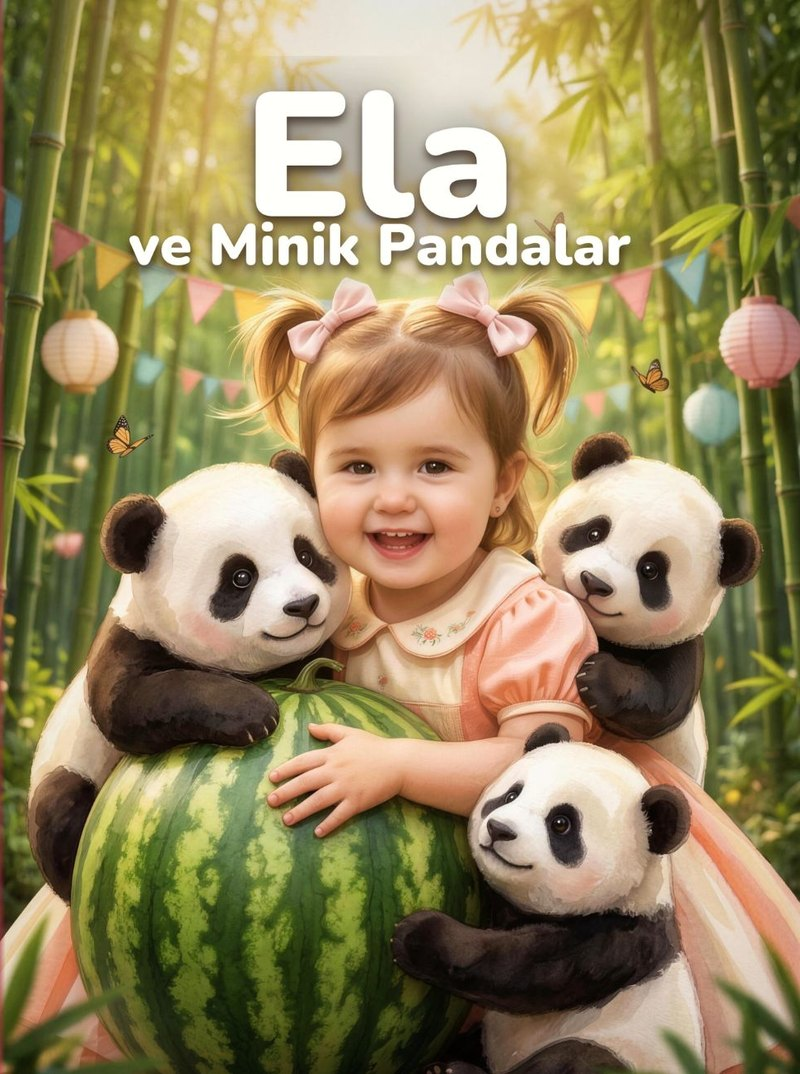
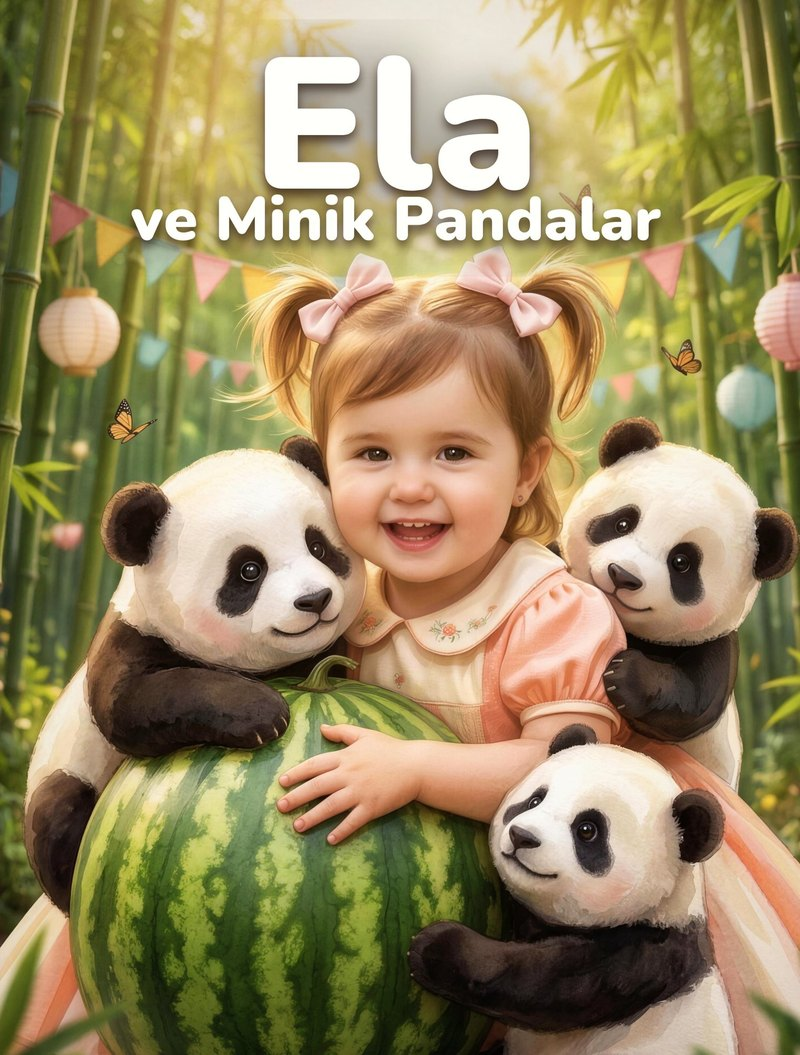
Sharper front covers for Asya and Ela
Claude-Session: https://claude.ai/code/session_01Mbokh7aAvXFYm4VU1qJPda

diff --git a/index.html b/index.html
@@ -17,7 +17,7 @@
 <link rel="preconnect" href="https://fonts.googleapis.com">
 <link rel="preconnect" href="https://fonts.gstatic.com" crossorigin>
 <link rel="stylesheet" href="https://fonts.googleapis.com/css2?family=Cormorant+Garamond:ital,wght@0,400;0,500;0,600;1,400;1,500&family=Jost:wght@300;400;500&display=swap">
-<link rel="stylesheet" href="site.css?v=202611081012">
+<link rel="stylesheet" href="site.css?v=202611081014">
 <style>
 /* Intro: one candlelit room. A jewel-red leather book with the gold-foil logo lies on the table.
    A tap on the book (or "Masalı Aç") opens it; three gold heroes grow out of the pages:
@@ -251,7 +251,7 @@
 <footer id="site-foot"></footer>
 
 <script src="https://cdnjs.cloudflare.com/ajax/libs/three.js/r128/three.min.js" defer></script>
-<script src="site.js?v=202611081012" defer></script>
+<script src="site.js?v=202611081014" defer></script>
 <script>
 // runs after the deferred three.js and site.js
 addEventListener('DOMContentLoaded', () => {

diff --git a/dinozorlarin-dogum-gunu-boyama.html b/dinozorlarin-dogum-gunu-boyama.html
@@ -17,8 +17,8 @@
 <link rel="preconnect" href="https://fonts.gstatic.com" crossorigin>
 <link rel="stylesheet" href="https://fonts.googleapis.com/css2?family=Cormorant+Garamond:ital,wght@0,400;0,500;0,600;1,400;1,500&family=Jost:wght@300;400;500&display=swap">
 <link rel="icon" href="img/favicon.png">
-<link rel="stylesheet" href="site.css?v=202611081012">
-<script src="site.js?v=202611081012" defer></script>
+<link rel="stylesheet" href="site.css?v=202611081014">
+<script src="site.js?v=202611081014" defer></script>
 </head>
 <body data-page="urun" data-product="dinozorlarin-dogum-gunu-boyama">
 <header id="site-head"></header>

diff --git a/buz-satosunun-sirri-boyama.html b/buz-satosunun-sirri-boyama.html
@@ -17,8 +17,8 @@
 <link rel="preconnect" href="https://fonts.gstatic.com" crossorigin>
 <link rel="stylesheet" href="https://fonts.googleapis.com/css2?family=Cormorant+Garamond:ital,wght@0,400;0,500;0,600;1,400;1,500&family=Jost:wght@300;400;500&display=swap">
 <link rel="icon" href="img/favicon.png">
-<link rel="stylesheet" href="site.css?v=202611081012">
-<script src="site.js?v=202611081012" defer></script>
+<link rel="stylesheet" href="site.css?v=202611081014">
+<script src="site.js?v=202611081014" defer></script>
 </head>
 <body data-page="urun" data-product="buz-satosunun-sirri-boyama">
 <header id="site-head"></header>

diff --git a/deniz-kizi-kralligi-boyama.html b/deniz-kizi-kralligi-boyama.html
@@ -17,8 +17,8 @@
 <link rel="preconnect" href="https://fonts.gstatic.com" crossorigin>
 <link rel="stylesheet" href="https://fonts.googleapis.com/css2?family=Cormorant+Garamond:ital,wght@0,400;0,500;0,600;1,400;1,500&family=Jost:wght@300;400;500&display=swap">
 <link rel="icon" href="img/favicon.png">
-<link rel="stylesheet" href="site.css?v=202611081012">
-<script src="site.js?v=202611081012" defer></script>
+<link rel="stylesheet" href="site.css?v=202611081014">
+<script src="site.js?v=202611081014" defer></script>
 </head>
 <body data-page="urun" data-product="deniz-kizi-kralligi-boyama">
 <header id="site-head"></header>

diff --git a/sihirli-kutuphane-boyama.html b/sihirli-kutuphane-boyama.html
@@ -17,8 +17,8 @@
 <link rel="preconnect" href="https://fonts.gstatic.com" crossorigin>
 <link rel="stylesheet" href="https://fonts.googleapis.com/css2?family=Cormorant+Garamond:ital,wght@0,400;0,500;0,600;1,400;1,500&family=Jost:wght@300;400;500&display=swap">
 <link rel="icon" href="img/favicon.png">
-<link rel="stylesheet" href="site.css?v=202611081012">
-<script src="site.js?v=202611081012" defer></script>
+<link rel="stylesheet" href="site.css?v=202611081014">
+<script src="site.js?v=202611081014" defer></script>
 </head>
 <body data-page="urun" data-product="sihirli-kutuphane-boyama">
 <header id="site-head"></header>

diff --git a/dinozorlarin-dogum-gunu.html b/dinozorlarin-dogum-gunu.html
@@ -17,8 +17,8 @@
 <link rel="preconnect" href="https://fonts.gstatic.com" crossorigin>
 <link rel="stylesheet" href="https://fonts.googleapis.com/css2?family=Cormorant+Garamond:ital,wght@0,400;0,500;0,600;1,400;1,500&family=Jost:wght@300;400;500&display=swap">
 <link rel="icon" href="img/favicon.png">
-<link rel="stylesheet" href="site.css?v=202611081012">
-<script src="site.js?v=202611081012" defer></script>
+<link rel="stylesheet" href="site.css?v=202611081014">
+<script src="site.js?v=202611081014" defer></script>
 </head>
 <body data-page="urun" data-product="dinozorlarin-dogum-gunu">
 <header id="site-head"></header>

diff --git a/minik-pandalar-boyama.html b/minik-pandalar-boyama.html
@@ -17,8 +17,8 @@
 <link rel="preconnect" href="https://fonts.gstatic.com" crossorigin>
 <link rel="stylesheet" href="https://fonts.googleapis.com/css2?family=Cormorant+Garamond:ital,wght@0,400;0,500;0,600;1,400;1,500&family=Jost:wght@300;400;500&display=swap">
 <link rel="icon" href="img/favicon.png">
-<link rel="stylesheet" href="site.css?v=202611081012">
-<script src="site.js?v=202611081012" defer></script>
+<link rel="stylesheet" href="site.css?v=202611081014">
+<script src="site.js?v=202611081014" defer></script>
 </head>
 <body data-page="urun" data-product="minik-pandalar-boyama">
 <header id="site-head"></header>

diff --git a/buz-satosunun-sirri.html b/buz-satosunun-sirri.html
@@ -17,8 +17,8 @@
 <link rel="preconnect" href="https://fonts.gstatic.com" crossorigin>
 <link rel="stylesheet" href="https://fonts.googleapis.com/css2?family=Cormorant+Garamond:ital,wght@0,400;0,500;0,600;1,400;1,500&family=Jost:wght@300;400;500&display=swap">
 <link rel="icon" href="img/favicon.png">
-<link rel="stylesheet" href="site.css?v=202611081012">
-<script src="site.js?v=202611081012" defer></script>
+<link rel="stylesheet" href="site.css?v=202611081014">
+<script src="site.js?v=202611081014" defer></script>
 </head>
 <body data-page="urun" data-product="buz-satosunun-sirri">
 <header id="site-head"></header>

diff --git a/deniz-kizi-kralligi.html b/deniz-kizi-kralligi.html
@@ -17,8 +17,8 @@
 <link rel="preconnect" href="https://fonts.gstatic.com" crossorigin>
 <link rel="stylesheet" href="https://fonts.googleapis.com/css2?family=Cormorant+Garamond:ital,wght@0,400;0,500;0,600;1,400;1,500&family=Jost:wght@300;400;500&display=swap">
 <link rel="icon" href="img/favicon.png">
-<link rel="stylesheet" href="site.css?v=202611081012">
-<script src="site.js?v=202611081012" defer></script>
+<link rel="stylesheet" href="site.css?v=202611081014">
+<script src="site.js?v=202611081014" defer></script>
 </head>
 <body data-page="urun" data-product="deniz-kizi-kralligi">
 <header id="site-head"></header>

diff --git a/sihirli-kutuphane.html b/sihirli-kutuphane.html
@@ -17,8 +17,8 @@
 <link rel="preconnect" href="https://fonts.gstatic.com" crossorigin>
 <link rel="stylesheet" href="https://fonts.googleapis.com/css2?family=Cormorant+Garamond:ital,wght@0,400;0,500;0,600;1,400;1,500&family=Jost:wght@300;400;500&display=swap">
 <link rel="icon" href="img/favicon.png">
-<link rel="stylesheet" href="site.css?v=202611081012">
-<script src="site.js?v=202611081012" defer></script>
+<link rel="stylesheet" href="site.css?v=202611081014">
+<script src="site.js?v=202611081014" defer></script>
 </head>
 <body data-page="urun" data-product="sihirli-kutuphane">
 <header id="site-head"></header>

diff --git a/minik-pandalar.html b/minik-pandalar.html
@@ -17,8 +17,8 @@
 <link rel="preconnect" href="https://fonts.gstatic.com" crossorigin>
 <link rel="stylesheet" href="https://fonts.googleapis.com/css2?family=Cormorant+Garamond:ital,wght@0,400;0,500;0,600;1,400;1,500&family=Jost:wght@300;400;500&display=swap">
 <link rel="icon" href="img/favicon.png">
-<link rel="stylesheet" href="site.css?v=202611081012">
-<script src="site.js?v=202611081012" defer></script>
+<link rel="stylesheet" href="site.css?v=202611081014">
+<script src="site.js?v=202611081014" defer></script>
 </head>
 <body data-page="urun" data-product="minik-pandalar">
 <header id="site-head"></header>

diff --git a/mesafeli-satis.html b/mesafeli-satis.html
@@ -10,8 +10,8 @@
 <link rel="preconnect" href="https://fonts.gstatic.com" crossorigin>
 <link rel="stylesheet" href="https://fonts.googleapis.com/css2?family=Cormorant+Garamond:ital,wght@0,400;0,500;0,600;1,400;1,500&family=Jost:wght@300;400;500&display=swap">
 <link rel="icon" href="img/favicon.png">
-<link rel="stylesheet" href="site.css?v=202611081012">
-<script src="site.js?v=202611081012" defer></script>
+<link rel="stylesheet" href="site.css?v=202611081014">
+<script src="site.js?v=202611081014" defer></script>
 </head>
 <body data-page="mesafeli-satis">
 <header id="site-head"></header>
